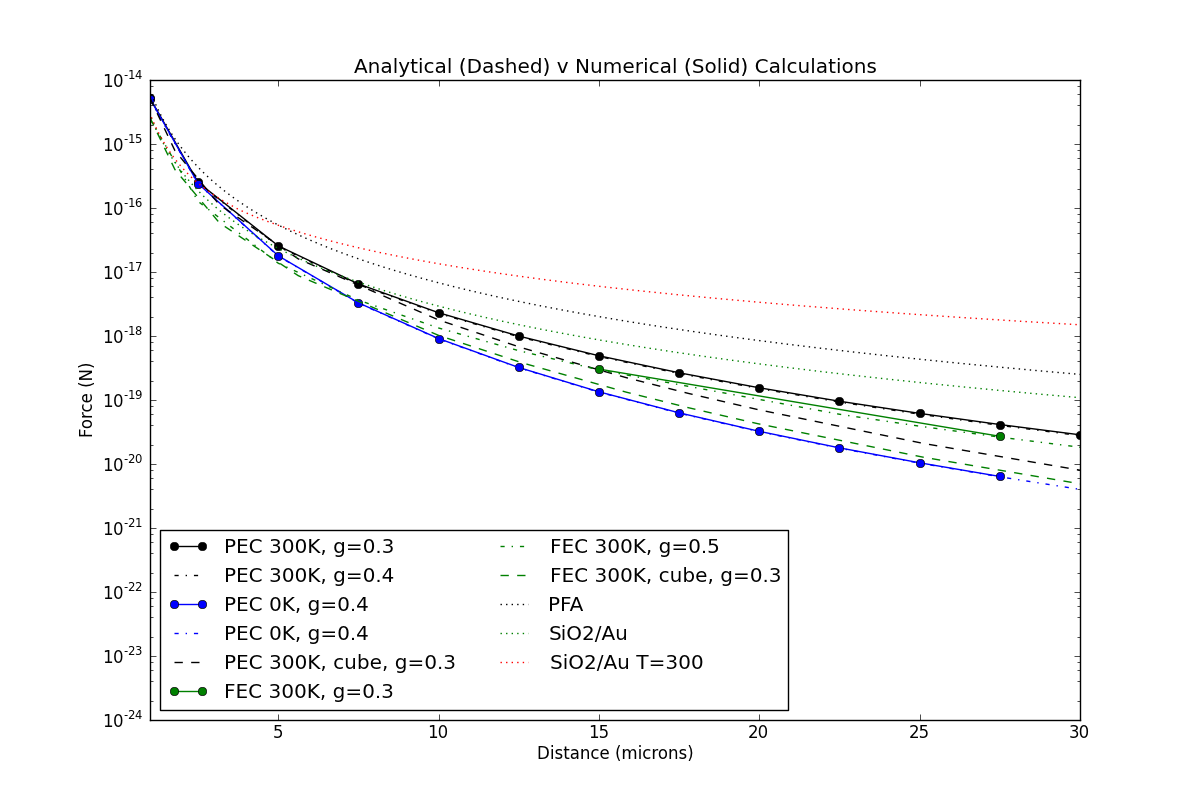
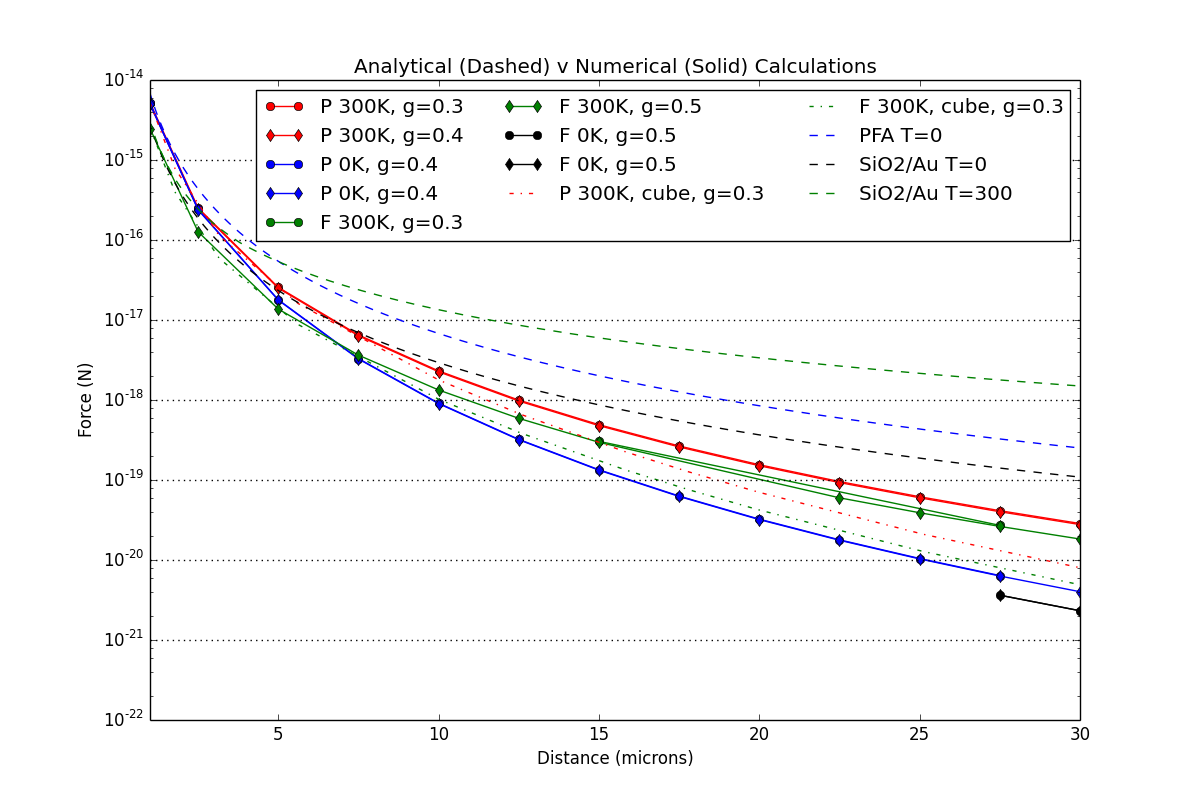
added plots

diff --git a/casimir/scuffCode/CubeSphereBest/compare.py b/casimir/scuffCode/CubeSphereBest/compare.py
@@ -50,17 +50,17 @@ d2t=d2t[inds]
 f2t=f2t[inds]
 g2t=g2t[inds]
 
-#d2,g2,e2,ee2,f2,ef2,s2=numpy.loadtxt("combined_results.txt",unpack=True,skiprows=1)
-#f2=-f2*31.6e-15
-#inds=argsort(d2)
-#d2=d2[inds]
-#f2=f2[inds]
-#g2=g2[inds]
-#s2=s2[inds]
-#inds=numpy.where(s2 == 0)
-#d2=d2[inds]
-#f2=f2[inds]
-#g2=g2[inds]
+d2,g2,e2,ee2,f2,ef2,s2=numpy.loadtxt("combined_results.txt",unpack=True,skiprows=1)
+f2=-f2*31.6e-15
+inds=argsort(d2)
+d2=d2[inds]
+f2=f2[inds]
+g2=g2[inds]
+s2=s2[inds]
+inds=numpy.where(s2 == 0)
+d2=d2[inds]
+f2=f2[inds]
+g2=g2[inds]
 
 d2ts,g2ts,e2ts,ee2ts,f2ts,ef2ts,sts2=numpy.loadtxt("../CubeSphere/combined_results_temp.txt",unpack=True,skiprows=1)
 f2ts=-f2ts*31.6e-15
@@ -83,47 +83,55 @@ figure(figsize=(12,8))
 
 gst=numpy.min(g1t)
 inds = numpy.where(g1t == gst)
-plot(d1t[inds],f1t[inds],'-o',label="PEC 300K, g="+str(gst),color="black")
+plot(d1t[inds],f1t[inds],'-o',label="P 300K, g="+str(gst),color="red")
 inds = numpy.where(g1t == 0.5)
-plot(d1t[inds],f1t[inds],'-.',label="PEC 300K, g="+str(0.4),color="black")
+plot(d1t[inds],f1t[inds],'-d',label="P 300K, g="+str(0.4),color="red")
 
 gs=numpy.min(g1)
 inds = numpy.where(g1 == gs)
-plot(d1[inds],f1[inds],'-o',label="PEC 0K, g="+str(gs),color="blue")
+plot(d1[inds],f1[inds],'-o',label="P 0K, g="+str(gs),color="blue")
 inds = numpy.where(g1 == 0.5)
-plot(d1[inds],f1[inds],'-.',label="PEC 0K, g="+str(0.4),color="blue")
-
-gst=numpy.min(g1ts)
-inds = numpy.where(g1ts == gst)
-plot(d1ts[inds],f1ts[inds],'--',label="PEC 300K, cube, g="+str(gst),color="black")
+plot(d1[inds],f1[inds],'-d',label="P 0K, g="+str(0.4),color="blue")
 
 gs=numpy.min(g2t)
 inds = numpy.where(g2t == gs)
-plot(d2t[inds],f2t[inds],'-o',label="FEC 300K, g="+str(gs),color="green")
+plot(d2t[inds],f2t[inds],'-o',label="F 300K, g="+str(gs),color="green")
 inds = numpy.where(g2t == 0.5)
-plot(d2t[inds],f2t[inds],'-.',label="FEC 300K, g="+str(0.5),color="green")
+plot(d2t[inds],f2t[inds],'-d',label="F 300K, g="+str(0.5),color="green")
 
-#gs=numpy.min(g2)
-#inds = numpy.where(g2 == gs)
-#plot(d2[inds],f2[inds],'-o',label="FEC 300K, grid="+str(gs),color="green")
-#inds = numpy.where(g2 == 0.5)
-#plot(d2[inds],f2[inds],'-.',label="FEC 300K, grid="+str(0.5),color="green")
+gs=numpy.min(g2)
+inds = numpy.where(g2 == gs)
+plot(d2[inds],f2[inds],'-o',label="F 0K, g="+str(gs),color="black")
+inds = numpy.where(g2 == 0.5)
+plot(d2[inds],f2[inds],'-d',label="F 0K, g="+str(0.5),color="black")
+
+gst=numpy.min(g1ts)
+inds = numpy.where(g1ts == gst)
+plot(d1ts[inds],f1ts[inds],'-.',label="P 300K, cube, g="+str(gst),color="red")
 
 gs=numpy.min(g2ts)
 inds = numpy.where(g2ts == gs)
-plot(d2ts[inds],f2ts[inds],'--',label="FEC 300K, cube, g="+str(gs),color="green")
+plot(d2ts[inds],f2ts[inds],'-.',label="F 300K, cube, g="+str(gs),color="green")
 
-plot(dist,fpfa,label="PFA",linestyle=':',color="black")
-plot(dist,fright,label="SiO2/Au",linestyle=':',color="green")
-plot(dist,ftemp,label="SiO2/Au T=300",linestyle=':',color="red")
+plot([1,30],[1e-15,1e-15],':',color="black")
+plot([1,30],[1e-16,1e-16],':',color="black")
+plot([1,30],[1e-17,1e-17],':',color="black")
+plot([1,30],[1e-18,1e-18],':',color="black")
+plot([1,30],[1e-19,1e-19],':',color="black")
+plot([1,30],[1e-20,1e-20],':',color="black")
+plot([1,30],[1e-21,1e-21],':',color="black")
+
+plot(dist,fpfa,label="PFA T=0",linestyle='--',color="blue")
+plot(dist,fright,label="SiO2/Au T=0",linestyle='--',color="black")
+plot(dist,ftemp,label="SiO2/Au T=300",linestyle='--',color="green")
 xlim(1,30)
 #xscale('log')
 yscale('log')
-ylim(1e-24,1e-14)
+ylim(1e-22,1e-14)
 xlabel('Distance (microns)')
 ylabel('Force (N)')
 title('Analytical (Dashed) v Numerical (Solid) Calculations')
-legend(loc="lower left",ncol=2)
+legend(loc="upper right",ncol=3)
 savefig('analytic_v_numerical_best')
 #show()
 
@@ -137,7 +145,7 @@ gs=numpy.unique(g1t)
 for i in range(0,len(gs)):
     inds = numpy.where(g1t == gs[i])
     rPFA=f1t[inds]/iPFA(d1t[inds])
-    plot(d1t[inds]/2.5,rPFA,label="PFA, grid="+str(gs[i]))
+    plot(d1t[inds]/2.5,rPFA,label="PEC/PFA, g="+str(gs[i]))
 plot(cdx,cdy,label="Canaguieier-Durand",linestyle=':',color="black")
 #xscale('log')
 xlim(0,3)

diff --git a/casimir/scuffCode/CubeSphereBest/prediction.py b/casimir/scuffCode/CubeSphereBest/prediction.py
@@ -1,0 +1,72 @@
+import numpy
+from pylab import *
+from scipy.interpolate import interp1d
+
+d1t,g1t,e1t,ee1t,f1t,ef1t,st=numpy.loadtxt("PEC_combined_results_temp.txt",unpack=True,skiprows=1)
+f1t=-f1t*31.6e-15*1e18
+inds=argsort(d1t)
+d1t=d1t[inds]
+f1t=f1t[inds]
+g1t=g1t[inds]
+st=st[inds]
+inds=numpy.where(st == 0)
+d1t=d1t[inds]
+f1t=f1t[inds]
+g1t=g1t[inds]
+
+d2t,g2t,e2t,ee2t,f2t,ef2t,s2t=numpy.loadtxt("combined_results_temp.txt",unpack=True,skiprows=1)
+f2t=-f2t*31.6e-15*1e18
+inds=argsort(d2t)
+d2t=d2t[inds]
+f2t=f2t[inds]
+g2t=g2t[inds]
+s2t=s2t[inds]
+inds=numpy.where(s2t == 0)
+d2t=d2t[inds]
+f2t=f2t[inds]
+g2t=g2t[inds]
+
+datafile="../../Mathematica/calculated_vals.tsv"
+PFA_datafile="../../Mathematica/calculated_pfa_vals.tsv"
+dist,fpfa,fnaive,fright,ftemp=numpy.loadtxt(PFA_datafile,unpack=True)
+dist=dist*1e6
+ftemp=ftemp*1e18
+
+figure(figsize=(12,8))
+xnew=np.arange(1, 30, 0.1)
+
+gst=numpy.min(g1t)
+inds = numpy.where(g1t == gst)
+s = interp1d(d1t[inds],log(f1t[inds]),kind='cubic')
+plot(xnew,exp(s(xnew)),'--',label="PEC Limit, g="+str(gst),color="black")
+
+gs=numpy.min(g2t)
+gs=0.4
+inds = numpy.where(g2t == gs)
+xnew=np.arange(numpy.min(d2t[inds]), 30, 0.1)
+s = interp1d(d2t[inds],log(f2t[inds]),kind='cubic')
+plot(xnew,exp(s(xnew)),'-',label="Prediction, g="+str(gs),color="black")
+plot(xnew,exp(s(xnew))*1.08,':',label="Prediction Uncertainty, g="+str(gs),color="black")
+plot(xnew,exp(s(xnew))*0.92,':',color="black")
+print(d2t[inds])
+print(f2t[inds])
+
+plot([1,30],[1e3,1e3],':',color="black")
+plot([1,30],[1e2,1e2],':',color="black")
+plot([1,30],[1e1,1e1],':',color="black")
+plot([1,30],[1,1],':',color="black")
+plot([1,30],[1e-1,1e-1],':',color="black")
+plot([1,30],[1e-2,1e-2],':',color="black")
+plot([1,30],[1e-3,1e-3],':',color="black")
+
+plot(dist,ftemp,label="SiO2/Au PFA",linestyle='--',color="green")
+xlim(2.5,30)
+#xscale('log')
+yscale('log')
+ylim(1e-2,5e2)
+xlabel('Distance (microns)')
+ylabel('Force (1e-18 N)')
+title('Numerical Prediction for Casimir Force')
+legend(loc="lower left")
+savefig('prediction')
+#show()
